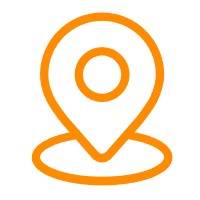
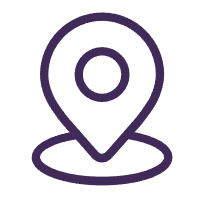
第五次更新
添加了自定义tabbar；删除了自带tab-bar；改变了tabbar配色；增加了tabbar跳转状态

Changed region(s): [[0.15, 0.06, 0.87, 0.93], [0.36, 0.21, 0.66, 0.51]]

diff --git a/前端代码/miniprogram/custom-tab-bar/index.js b/前端代码/miniprogram/custom-tab-bar/index.js
@@ -1,0 +1,60 @@
+const app = getApp()
+Component({
+    data: {
+     
+      color: "#afafaf",
+      selectedColor: "#49315c",
+      list: [
+          {
+                "pagePath": "/pages/map/map",
+                "text": "地图",
+                "iconPath": "../image/地标(1).png",
+                "selectedIconPath": "../image/地标.png"
+            },
+            {
+              "pagePath": "/pages/search/search",
+              "iconPath": "../image/搜索1.png",
+              "selectedIconPath": "../image/搜索.png",
+              "text": "搜索"
+            },
+            {
+              "pagePath": "/pages/add/add",
+              "iconPath": "../image/增加1.png",
+              "selectedIconPath": "../image/增加.png",
+              bulge:true,
+              "text": ""
+            },
+            {
+              "pagePath": "/pages/message/message",
+              "iconPath": "../image/_消息 (1).png",
+              "selectedIconPath": "../image/_消息.png",
+              "text": "消息"
+            },
+            {
+                "pagePath": "/pages/my/my",
+                "text": "我的",
+                "iconPath": "../image/_我的 (1).png",
+                "selectedIconPath": "../image/_我的.png"
+            }
+      ]
+    },
+    ready: function() {
+        this.setData({
+          selected: app.globalData.selected
+          
+        })
+      },
+    attached() {
+    },
+    methods: {
+        switchTab(e) {
+            // console.log(e);
+            const data = e.currentTarget.dataset;
+            const url = data.path;
+            app.globalData.selected = data.index;
+            console.log(data.index);
+            wx.switchTab({url})
+          }
+          
+        }
+  })

diff --git a/前端代码/miniprogram/pages/search/search.js b/前端代码/miniprogram/pages/search/search.js
@@ -1,5 +1,4 @@
-// pages/my/my.js
-const app=getApp()
+// pages/search/search.js
 Page({
 
     /**
@@ -13,7 +12,7 @@ Page({
      * 生命周期函数--监听页面加载
      */
     onLoad(options) {
-        
+       
 
     },
 
@@ -28,20 +27,15 @@ Page({
      * 生命周期函数--监听页面显示
      */
     onShow() {
-        this.setData({
-            userInfo:app.globalData.userInfo
-            
-        })
         if (typeof this.getTabBar === 'function' && this.getTabBar()) {
 
             this.getTabBar().setData({
 
-                selected: 4
+                selected: 1
 
             })
 
         }
-
     },
 
     /**

diff --git a/前端代码/miniprogram/tab-bar/tab-bar.js b/前端代码/miniprogram/tab-bar/tab-bar.js
@@ -1,5 +1,4 @@
-// pages/my/my.js
-const app=getApp()
+// tab-bar/tab-bar.js
 Page({
 
     /**
@@ -13,7 +12,6 @@ Page({
      * 生命周期函数--监听页面加载
      */
     onLoad(options) {
-        
 
     },
 
@@ -28,19 +26,6 @@ Page({
      * 生命周期函数--监听页面显示
      */
     onShow() {
-        this.setData({
-            userInfo:app.globalData.userInfo
-            
-        })
-        if (typeof this.getTabBar === 'function' && this.getTabBar()) {
-
-            this.getTabBar().setData({
-
-                selected: 4
-
-            })
-
-        }
 
     },
 

diff --git a/前端代码/miniprogram/pages/add/add.js b/前端代码/miniprogram/pages/add/add.js
@@ -1,4 +1,4 @@
-// pages/tabhome/tabhome.js
+// pages/add/add.js
 Page({
 
     /**
@@ -12,6 +12,7 @@ Page({
      * 生命周期函数--监听页面加载
      */
     onLoad(options) {
+        
 
     },
 
@@ -26,7 +27,15 @@ Page({
      * 生命周期函数--监听页面显示
      */
     onShow() {
+        if (typeof this.getTabBar === 'function' && this.getTabBar()) {
 
+            this.getTabBar().setData({
+
+                selected: 2
+
+            })
+
+        }
     },
 
     /**

diff --git a/前端代码/miniprogram/pages/message/message.js b/前端代码/miniprogram/pages/message/message.js
@@ -53,7 +53,9 @@ Page({
      * 生命周期函数--监听页面加载
      */
     onLoad(options) {
+       
         this.getxinxi()
+
     },
 
     /**
@@ -71,6 +73,15 @@ Page({
         this.setData({
             userInfo:app.globalData.userInfo
         })
+        if (typeof this.getTabBar === 'function' && this.getTabBar()) {
+
+            this.getTabBar().setData({
+
+                selected: 3
+
+            })
+
+        }
     },
 
     /**

diff --git a/前端代码/miniprogram/pages/map/map.js b/前端代码/miniprogram/pages/map/map.js
@@ -25,7 +25,21 @@ Page({
   /**
    * 页面装载回调
    */
+  onShow() {
+    
+    if (typeof this.getTabBar === 'function' && this.getTabBar()) {
+
+        this.getTabBar().setData({
+
+            selected: 0
+
+        })
+
+    }
+},
+
   onLoad () {
+     
     that = this // 设置页面this指针到全局that
     wx.getLocation({ // 获取当前位置
       type: 'gcj02', // gcj02火星坐标系，用于地图标记点位

diff --git a/前端代码/miniprogram/app.js b/前端代码/miniprogram/app.js
@@ -42,7 +42,8 @@ App({
       }
     },
     globalData:{
-      userInfo:null
+      userInfo:null,
+      selected:0
   },
     /**
      * 封装的云函数调用方法
